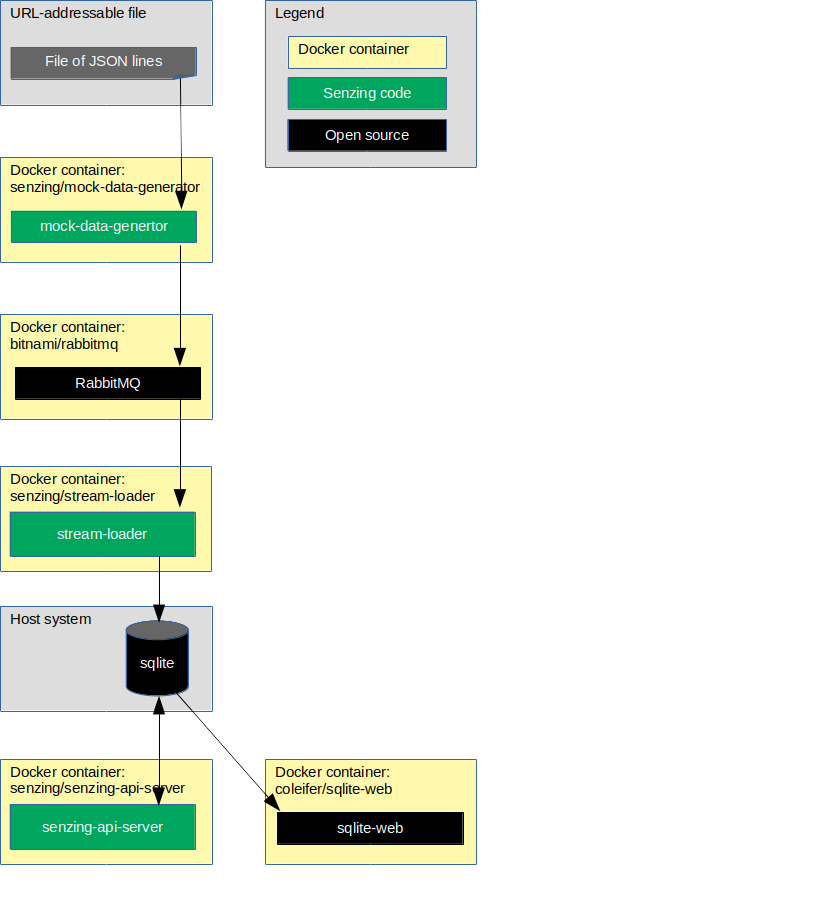
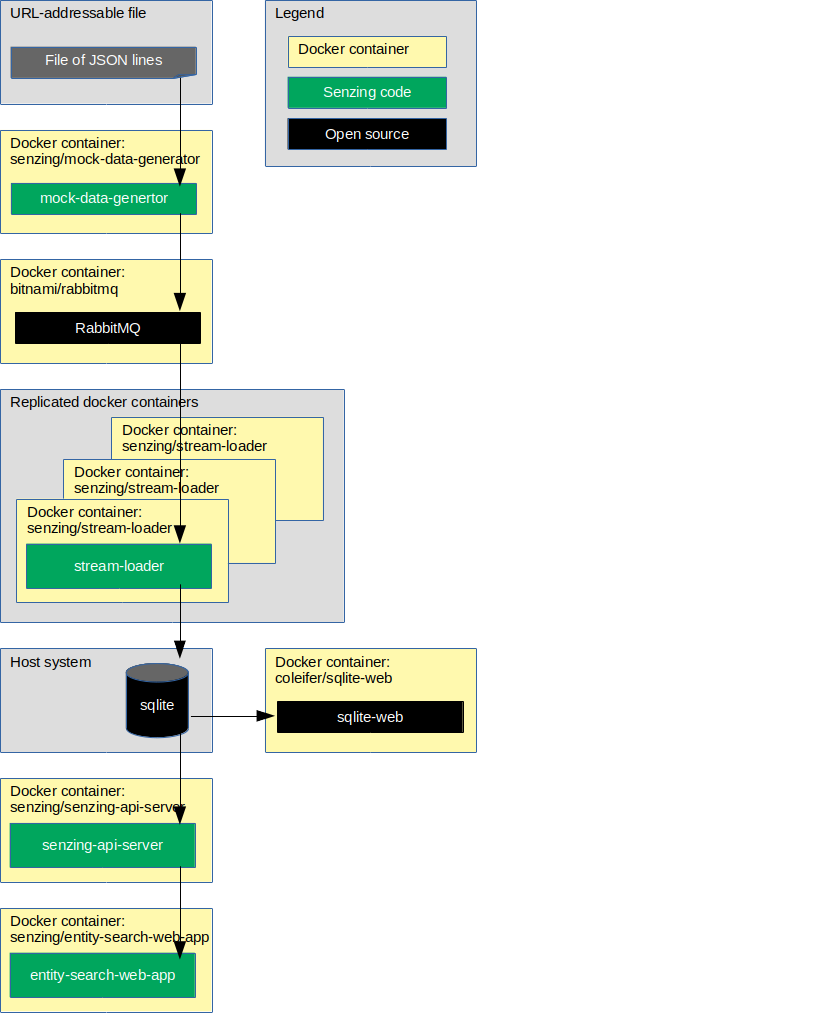
issue-16 Modify for RPM install

diff --git a/docs/docker-compose-rabbitmq-sqlite/README.md b/docs/docker-compose-rabbitmq-sqlite/README.md
@@ -23,10 +23,10 @@ This docker formation brings up the following docker containers:
 
 1. *[bitnami/rabbitmq](https://github.com/bitnami/bitnami-docker-rabbitmq)*
 1. *[coleifer/sqlite-web](https://github.com/coleifer/sqlite-web)*
+1. *[senzing/entity-web-search-app](https://github.com/Senzing/entity-search-web-app)*
 1. *[senzing/mock-data-generator](https://github.com/Senzing/mock-data-generator)*
-1. *[senzing/senzing-base](https://github.com/Senzing/docker-senzing-base)*
-1. *[senzing/stream-loader](https://github.com/Senzing/stream-loader)*
 1. *[senzing/senzing-api-server](https://github.com/Senzing/senzing-api-server)*
+1. *[senzing/stream-loader](https://github.com/Senzing/stream-loader)*
 
 ### Contents
 
@@ -37,12 +37,13 @@ This docker formation brings up the following docker containers:
 1. [Preparation](#preparation)
     1. [Prerequisite software](#prerequisite-software)
     1. [Clone repository](#clone-repository)
-    1. [Create SENZING_DIR](#create-senzing_dir)
+    1. [EULA](#eula)
 1. [Using docker-compose](#using-docker-compose)
     1. [Configuration](#configuration)
+    1. [Volumes](#volumes)
     1. [Run docker formation](#run-docker-formation)
     1. [View data](#view-data)
-    1. [Test Senzing API](#test-senzing-api)
+    1. [View Senzing API](#view-senzing-api)
 1. [Cleanup](#cleanup)
 
 ## Expectations
@@ -92,10 +93,22 @@ see [Environment Variables](https://github.com/Senzing/knowledge-base/blob/maste
     export GIT_REPOSITORY_DIR="${GIT_ACCOUNT_DIR}/${GIT_REPOSITORY}"
     ```
 
-### Create SENZING_DIR
+### EULA
 
-If you do not already have an `/opt/senzing` directory on your local system, visit
-[HOWTO - Create SENZING_DIR](https://github.com/Senzing/knowledge-base/blob/master/HOWTO/create-senzing-dir.md).
+To use the Senzing code, you must agree to the End User License Agreement (EULA).
+
+1. :warning: This step is intentionally tricky and not simply copy/paste.
+   This ensures that you make a conscious effort to accept the EULA.
+   See
+   [SENZING_ACCEPT_EULA](https://github.com/Senzing/knowledge-base/blob/master/lists/environment-variables.md#senzing_accept_eula)
+   for the correct value.
+   Replace the double-quote character in the example with the correct value.
+   The use of the double-quote character is intentional to prevent simple copy/paste.
+   Example:
+
+    ```console
+    export SENZING_ACCEPT_EULA="
+    ```
 
 ## Using docker-compose
 
@@ -103,81 +116,149 @@ If you do not already have an `/opt/senzing` directory on your local system, vis
 
 Configuration values specified by environment variable or command line parameter.
 
-* **RABBITMQ_STORAGE** -
-  Path on local system where RabbitMQ files are stored.
-  Default: "/storage/docker/senzing/docker-compose-rabbitmq-sqlite/rabbitmq"
-* **SENZING_DIR** -
-  Path on the local system where
-  [Senzing_API.tgz](https://s3.amazonaws.com/public-read-access/SenzingComDownloads/Senzing_API.tgz)
-  has been extracted.
-  See [Create SENZING_DIR](#create-senzing_dir).
-  No default.
-  Usually set to "/opt/senzing".
+- **[RABBITMQ_STORAGE](https://github.com/Senzing/knowledge-base/blob/master/lists/environment-variables.md#rabbitmq_storage)**
+- **[SENZING_ACCEPT_EULA](https://github.com/Senzing/knowledge-base/blob/master/lists/environment-variables.md#senzing_accept_eula)**
+- **[SENZING_DATA_VERSION_DIR](https://github.com/Senzing/knowledge-base/blob/master/lists/environment-variables.md#senzing_data_version_dir)**
+- **[SENZING_ETC_DIR](https://github.com/Senzing/knowledge-base/blob/master/lists/environment-variables.md#senzing_etc_dir)**
+- **[SENZING_G2_DIR](https://github.com/Senzing/knowledge-base/blob/master/lists/environment-variables.md#senzing_g2_dir)**
+- **[SENZING_VAR_DIR](https://github.com/Senzing/knowledge-base/blob/master/lists/environment-variables.md#senzing_var_dir)**
+
+### Volumes
+
+The output of `yum install senzingapi` places files in different directories.
+Create a folder for each output directory.
+
+1. :pencil2: Option #1.
+   To mimic an actual RPM installation,
+   identify directories for RPM output in this manner:
+
+    ```console
+    export SENZING_DATA_DIR=/opt/senzing/data
+    export SENZING_DATA_VERSION_DIR=${SENZING_DATA_DIR}/1.0.0
+    export SENZING_ETC_DIR=/etc/opt/senzing
+    export SENZING_G2_DIR=/opt/senzing/g2
+    ```
+
+1. :pencil2: Option #2.
+   If Senzing directories were put in alternative directories,
+   set environment variables to reflect where the directories were placed.
+   Example:
+
+    ```console
+    export SENZING_VOLUME=/opt/my-senzing
+
+    export SENZING_DATA_DIR=${SENZING_VOLUME}/data
+    export SENZING_DATA_VERSION_DIR=${SENZING_DATA_DIR}/1.0.0
+    export SENZING_ETC_DIR=${SENZING_VOLUME}/etc
+    export SENZING_G2_DIR=${SENZING_VOLUME}/g2
+    ```
 
 ### Run docker formation
 
-1. :pencil2: Set environment variables.  Example:
+1. If Senzing has not been installed, install Senzing.
+   Example:
+
+    ```console
+    cd ${GIT_REPOSITORY_DIR}
+    sudo \
+      SENZING_ACCEPT_EULA=${SENZING_ACCEPT_EULA} \
+      SENZING_DATA_DIR=${SENZING_DATA_DIR} \
+      SENZING_ETC_DIR=${SENZING_ETC_DIR} \
+      SENZING_G2_DIR=${SENZING_G2_DIR} \
+      SENZING_VAR_DIR=${SENZING_VAR_DIR} \
+      docker-compose --file resources/senzing/docker-compose-senzing-installation.yaml up
+    ```
+
+1. Bring down Senzing installer.
+   Example:
+
+    ```console
+    cd ${GIT_REPOSITORY_DIR}
+    sudo docker-compose --file resources/senzing/docker-compose-sqlite-initialization.yaml down
+    ```
+
+1. :pencil2: Set environment variables.
+   Example:
 
     ```console
     export RABBITMQ_STORAGE=/storage/docker/senzing/docker-compose-rabbitmq-sqlite/rabbitmq
-    export SENZING_DIR=/opt/senzing
     ```
 
-1. Create directories.  Example:
+1. Create directories.
+   Example:
 
     ```console
     sudo mkdir -p ${RABBITMQ_STORAGE}
     sudo chmod 777 ${RABBITMQ_STORAGE}
     ```
 
-1. Initialize database.  Example:
+1. Initialize database and Senzing.
+   Example:
 
     ```console
     cd ${GIT_REPOSITORY_DIR}
     sudo \
-      SENZING_DIR=${SENZING_DIR} \
-      docker-compose --file docker-compose-sqlite-initialization.yaml up
+      SENZING_DATA_VERSION_DIR=${SENZING_DATA_VERSION_DIR} \
+      SENZING_ETC_DIR=${SENZING_ETC_DIR} \
+      SENZING_G2_DIR=${SENZING_G2_DIR} \
+      SENZING_VAR_DIR=${SENZING_VAR_DIR} \
+      docker-compose --file resources/sqlite/docker-compose-sqlite-initialization.yaml up
     ```
 
-1. Bring down database initialization.  Example:
+1. Wait until containers have completed their work.
+   Look for the following in the docker logs.
+   Examples:
+
+   senzing-init-container
+
+    ```console
+    yyyy-mm-ss hh:mm:ss,xxx senzing-50070298I Exit {...
+    ```
+
+1. Bring down database initialization.
+   Example:
 
     ```console
     cd ${GIT_REPOSITORY_DIR}
-    sudo docker-compose --file docker-compose-sqlite-initialization.yaml down
+    sudo docker-compose --file resources/sqlite/docker-compose-sqlite-initialization.yaml down
     ```
 
-1. Launch docker-compose formation.  Example:
+1. Launch docker-compose formation.
+   Example:
 
     ```console
     cd ${GIT_REPOSITORY_DIR}
     sudo \
       RABBITMQ_STORAGE=${RABBITMQ_STORAGE} \
-      SENZING_DIR=${SENZING_DIR} \
-      docker-compose --file docker-compose-rabbitmq-sqlite.yaml up
+      SENZING_DATA_VERSION_DIR=${SENZING_DATA_VERSION_DIR} \
+      SENZING_ETC_DIR=${SENZING_ETC_DIR} \
+      SENZING_G2_DIR=${SENZING_G2_DIR} \
+      SENZING_VAR_DIR=${SENZING_VAR_DIR} \
+      docker-compose --file resources/sqlite/docker-compose-rabbitmq-sqlite.yaml up
     ```
 
 ### View data
 
+1. Username and password for the following sites were either passed in as environment variables
+   or are the default values seen in
+   [docker-compose-rabbitmq-postgresql.yaml](../../resources/postgresql/docker-compose-rabbitmq-postgresql.yaml).
 1. RabbitMQ is viewable at [localhost:15672](http://localhost:15672)
 1. SQLite is viewable at [localhost:8080](http://localhost:8080).
     1. The records received from the queue can be viewed in the following Senzing tables:
         1. G2 > DSRC_RECORD
         1. G2 > OBS_ENT
+1. Senzing Entity Search WebApp is viewable at
+   [localhost:8888](http://localhost:8888).
+   The [demonstration](https://github.com/Senzing/knowledge-base/blob/master/demonstrations/docker-compose-web-app.md)
+   instructions will give a tour of the Senzing web app.
 
-### Test Senzing API
+### View Senzing API
 
-1. Wait for the following message in the terminal showing docker log.
-
-    ```console
-    senzing-api-server | Started Senzing REST API Server on port 8080.
-    senzing-api-server |
-    senzing-api-server | Server running at:
-    senzing-api-server | http://0.0.0.0:8080/
-    ```
-
-1. Test Senzing REST API server.
+1. View results from Senzing REST API server.
+   The server supports the
+   [Senzing REST API](https://github.com/Senzing/senzing-rest-api).
    *Note:*  In
-   [docker-compose-rabbitmq-sqlite.yaml](../../docker-compose-rabbitmq-sqlite.yaml)
+   [docker-compose-rabbitmq-sqlite.yaml](../../resources/postgresql/docker-compose-rabbitmq-sqlite.yaml)
    port 8889 on the localhost has been mapped to port 8080 in the docker container.
    Example:
 
@@ -198,19 +279,13 @@ In a separate (or reusable) terminal window:
 
     ```console
     cd ${GIT_REPOSITORY_DIR}
-    sudo docker-compose --file docker-compose-rabbitmq-sqlite.yaml down
+    sudo docker-compose --file resources/sqlite/docker-compose-rabbitmq-sqlite.yaml down
     ```
 
 1. Delete storage.
 
     ```console
     sudo rm -rf ${RABBITMQ_STORAGE}
-    ```
-
-1. Delete SENZING_DIR.
-
-    ```console
-    sudo rm -rf ${SENZING_DIR}
     ```
 
 1. Delete git repository.
